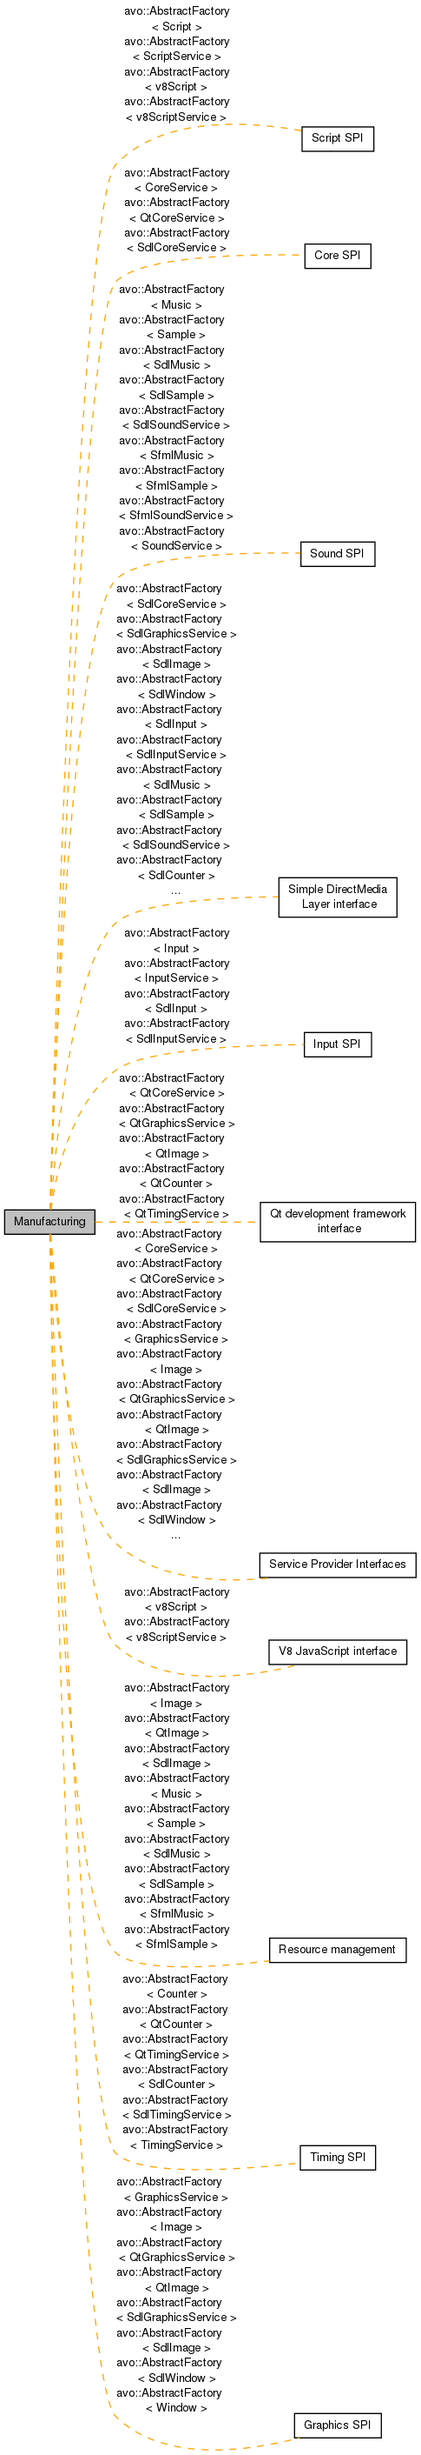
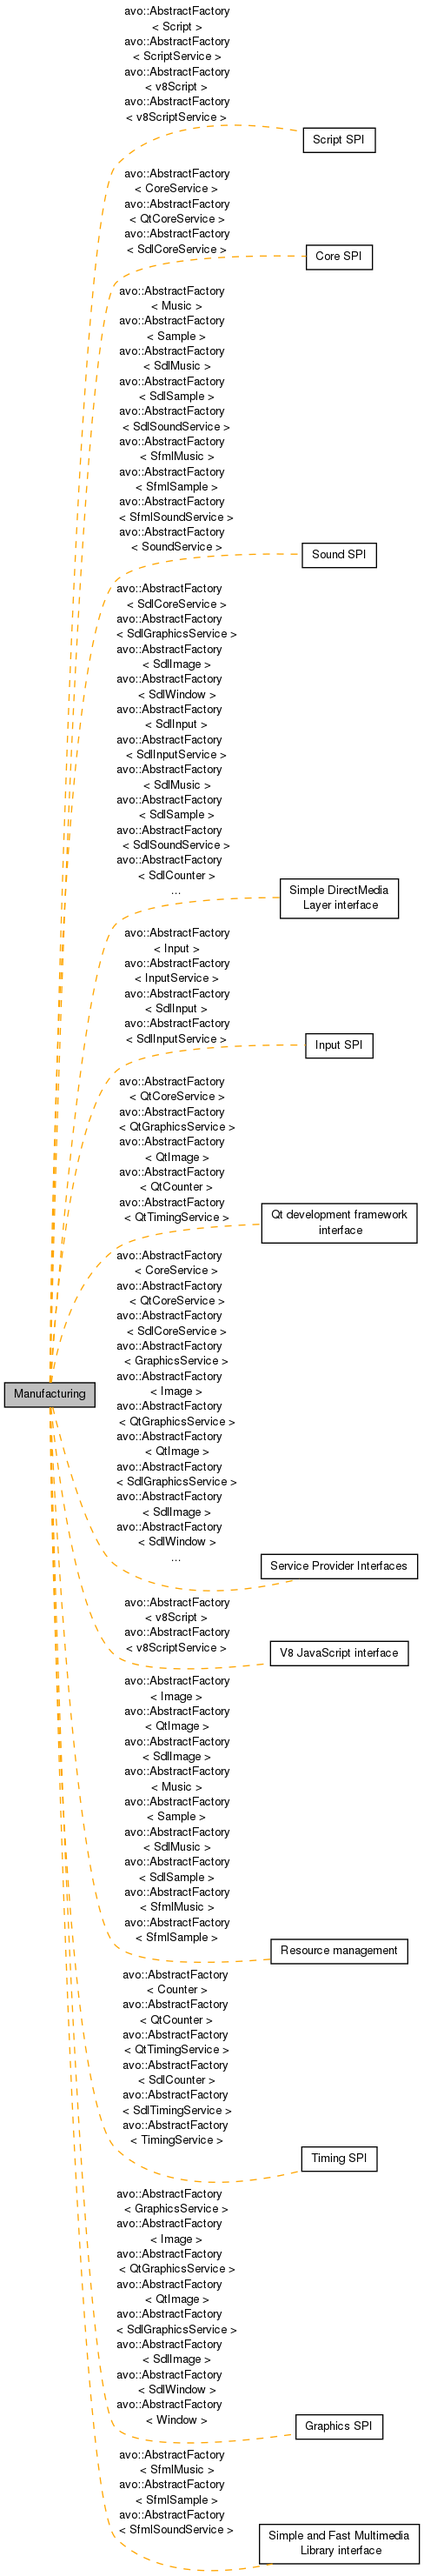
raw:419c39bc924a7d3ce7db492aa6c10b3a70083c38

diff --git a/cpp/group__SFML.html b/cpp/group__SFML.html
@@ -3,7 +3,7 @@
 <head>
 <meta http-equiv="Content-Type" content="text/xhtml;charset=UTF-8"/>
 <meta http-equiv="X-UA-Compatible" content="IE=9"/>
-<title>AvocadoC++: Modules</title>
+<title>AvocadoC++: Simple and Fast Multimedia Library interface</title>
 <link href="tabs.css" rel="stylesheet" type="text/css"/>
 <script type="text/javascript" src="jquery.js"></script>
 <script type="text/javascript" src="dynsections.js"></script>
@@ -37,7 +37,7 @@ var searchBox = new SearchBox("searchBox", "search",false,'Search');
   <div id="navrow1" class="tabs">
     <ul class="tablist">
       <li><a href="index.html"><span>Main&#160;Page</span></a></li>
-      <li class="current"><a href="modules.html"><span>Modules</span></a></li>
+      <li><a href="modules.html"><span>Modules</span></a></li>
       <li><a href="namespaces.html"><span>Namespaces</span></a></li>
       <li><a href="annotated.html"><span>Classes</span></a></li>
       <li><a href="files.html"><span>Files</span></a></li>
@@ -75,28 +75,41 @@ var searchBox = new SearchBox("searchBox", "search",false,'Search');
 </div>
 
 <div class="header">
+  <div class="summary">
+<a href="#nested-classes">Classes</a>  </div>
   <div class="headertitle">
-<div class="title">Modules</div>  </div>
+<div class="title">Simple and Fast Multimedia Library interface</div>  </div>
 </div><!--header-->
 <div class="contents">
-<div class="textblock">Here is a list of all modules:</div><div class="directory">
-<table class="directory">
-<tr id="row_0_" class="even"><td class="entry"><img src="ftv2node.png" alt="o" width="16" height="22" /><a class="el" href="group__SPI.html" target="_self">Service Provider Interfaces</a></td><td class="desc">Simply put, SPI implementations (SPIIs) provide an way for the engine to do interesting and dynamic things</td></tr>
-<tr id="row_1_"><td class="entry"><img src="ftv2node.png" alt="o" width="16" height="22" /><a class="el" href="group__Script.html" target="_self">Script SPI</a></td><td class="desc">The script SPI handles all communication between the native C++ engine and JavaScript</td></tr>
-<tr id="row_2_" class="even"><td class="entry"><img src="ftv2node.png" alt="o" width="16" height="22" /><a class="el" href="group__Core.html" target="_self">Core SPI</a></td><td class="desc">The core SPI handles framework initialization (e.g. SDL_Init()) and teardown (e.g. SDL_Quit()) as well as bridges to core engine functionality like filesystem access</td></tr>
-<tr id="row_3_"><td class="entry"><img src="ftv2node.png" alt="o" width="16" height="22" /><a class="el" href="group__Graphics.html" target="_self">Graphics SPI</a></td><td class="desc">The graphics SPI handles window and graphics system initialization, and rendering</td></tr>
-<tr id="row_4_" class="even"><td class="entry"><img src="ftv2node.png" alt="o" width="16" height="22" /><a class="el" href="group__Input.html" target="_self">Input SPI</a></td><td class="desc">The input SPI handles user input polling</td></tr>
-<tr id="row_5_"><td class="entry"><img src="ftv2node.png" alt="o" width="16" height="22" /><a class="el" href="group__Sound.html" target="_self">Sound SPI</a></td><td class="desc">The sound SPI handles sound system initialization, as well as music and sample loading and playing</td></tr>
-<tr id="row_6_" class="even"><td class="entry"><img src="ftv2node.png" alt="o" width="16" height="22" /><a class="el" href="group__Timing.html" target="_self">Timing SPI</a></td><td class="desc">The timing SPI handles measuring time</td></tr>
-<tr id="row_7_"><td class="entry"><img src="ftv2node.png" alt="o" width="16" height="22" /><a class="el" href="group__Manufacturing.html" target="_self">Manufacturing</a></td><td class="desc">Manufacturing functionality handles <a class="el" href="classavo_1_1AbstractFactory.html">abstract factory </a> definition and managing concrete factory instances</td></tr>
-<tr id="row_8_" class="even"><td class="entry"><img src="ftv2node.png" alt="o" width="16" height="22" /><a class="el" href="group__Resources.html" target="_self">Resource management</a></td><td class="desc">Resources are loaded from the resource root and are managed using reference counting</td></tr>
-<tr id="row_9_"><td class="entry"><img src="ftv2node.png" alt="o" width="16" height="22" /><a class="el" href="group__Global.html" target="_self">Globals and miscellany</a></td><td class="desc">Global macros and other miscellany</td></tr>
-<tr id="row_10_" class="even"><td class="entry"><img src="ftv2node.png" alt="o" width="16" height="22" /><a class="el" href="group__V8.html" target="_self">V8 JavaScript interface</a></td><td class="desc">Avocado's interface to the <a href="http://code.google.com/p/v8/">V8 JavaScript engine</a></td></tr>
-<tr id="row_11_"><td class="entry"><img src="ftv2node.png" alt="o" width="16" height="22" /><a class="el" href="group__SDL.html" target="_self">Simple DirectMedia Layer interface</a></td><td class="desc">Avocado's interface to the <a href="http://www.libsdl.org/">Simple DirectMedia Layer</a></td></tr>
-<tr id="row_12_" class="even"><td class="entry"><img src="ftv2node.png" alt="o" width="16" height="22" /><a class="el" href="group__SFML.html" target="_self">Simple and Fast Multimedia Library interface</a></td><td class="desc">Avocado's interface to the <a href="http://www.sfml-dev.org">Simple and Fast Multimedia Library</a></td></tr>
-<tr id="row_13_"><td class="entry"><img src="ftv2lastnode.png" alt="\" width="16" height="22" /><a class="el" href="group__Qt.html" target="_self">Qt development framework interface</a></td><td class="desc">Avocado's interface to the <a href="http://qt.digia.com/">Qt development framework</a></td></tr>
+
+<p>Avocado's interface to the <a href="http://www.sfml-dev.org">Simple and Fast Multimedia Library</a>.  
+<a href="#details">More...</a></p>
+<div class="dynheader">
+Collaboration diagram for Simple and Fast Multimedia Library interface:</div>
+<div class="dyncontent">
+<center><table><tr><td><img src="group__SFML.png" border="0" alt="" usemap="#group____SFML"/>
+<map name="group____SFML" id="group____SFML">
+<area shape="rect" id="node1" href="group__Sound.html" title="The sound SPI handles sound system initialization, as well as music and sample loading and playing..." alt="" coords="424,151,509,180"/><area shape="rect" id="node2" href="group__SPI.html" title="Simply put, SPI implementations (SPIIs) provide an way for the engine to do interesting and dynamic t..." alt="" coords="377,303,556,332"/><area shape="rect" id="node3" href="group__Resources.html" title="Resources are loaded from the resource root and are managed using reference counting." alt="" coords="388,437,545,467"/><area shape="rect" id="node4" href="group__Manufacturing.html" title="Manufacturing functionality handles abstract factory &#160;definition and managing concrete factory instan..." alt="" coords="415,572,519,601"/></map>
+</td></tr></table></center>
+</div>
+<table class="memberdecls">
+<tr class="heading"><td colspan="2"><h2 class="groupheader"><a name="nested-classes"></a>
+Classes</h2></td></tr>
+<tr class="memitem:"><td class="memItemLeft" align="right" valign="top">class &#160;</td><td class="memItemRight" valign="bottom"><a class="el" href="classavo_1_1SfmlMusic.html">avo::SfmlMusic</a></td></tr>
+<tr class="separator:"><td class="memSeparator" colspan="2">&#160;</td></tr>
+<tr class="memitem:"><td class="memItemLeft" align="right" valign="top">class &#160;</td><td class="memItemRight" valign="bottom"><a class="el" href="classavo_1_1AbstractFactory_3_01SfmlMusic_01_4.html">avo::AbstractFactory&lt; SfmlMusic &gt;</a></td></tr>
+<tr class="separator:"><td class="memSeparator" colspan="2">&#160;</td></tr>
+<tr class="memitem:"><td class="memItemLeft" align="right" valign="top">class &#160;</td><td class="memItemRight" valign="bottom"><a class="el" href="classavo_1_1SfmlSample.html">avo::SfmlSample</a></td></tr>
+<tr class="separator:"><td class="memSeparator" colspan="2">&#160;</td></tr>
+<tr class="memitem:"><td class="memItemLeft" align="right" valign="top">class &#160;</td><td class="memItemRight" valign="bottom"><a class="el" href="classavo_1_1AbstractFactory_3_01SfmlSample_01_4.html">avo::AbstractFactory&lt; SfmlSample &gt;</a></td></tr>
+<tr class="separator:"><td class="memSeparator" colspan="2">&#160;</td></tr>
+<tr class="memitem:"><td class="memItemLeft" align="right" valign="top">class &#160;</td><td class="memItemRight" valign="bottom"><a class="el" href="classavo_1_1SfmlSoundService.html">avo::SfmlSoundService</a></td></tr>
+<tr class="separator:"><td class="memSeparator" colspan="2">&#160;</td></tr>
+<tr class="memitem:"><td class="memItemLeft" align="right" valign="top">class &#160;</td><td class="memItemRight" valign="bottom"><a class="el" href="classavo_1_1AbstractFactory_3_01SfmlSoundService_01_4.html">avo::AbstractFactory&lt; SfmlSoundService &gt;</a></td></tr>
+<tr class="separator:"><td class="memSeparator" colspan="2">&#160;</td></tr>
 </table>
-</div><!-- directory -->
+<a name="details" id="details"></a><h2 class="groupheader">Detailed Description</h2>
+<p>Avocado's interface to the <a href="http://www.sfml-dev.org">Simple and Fast Multimedia Library</a>. </p>
 </div><!-- contents -->
 <!-- start footer part -->
 <hr class="footer"/><address class="footer"><small>

diff --git a/cpp/group__SPI.html b/cpp/group__SPI.html
@@ -90,7 +90,7 @@ Collaboration diagram for Service Provider Interfaces:</div>
 <div class="dyncontent">
 <center><table><tr><td><img src="group__SPI.png" border="0" alt="" usemap="#group____SPI"/>
 <map name="group____SPI" id="group____SPI">
-<area shape="rect" id="node1" href="group__Script.html" title="The script SPI handles all communication between the native C++ engine and JavaScript." alt="" coords="424,232,507,261"/><area shape="rect" id="node2" href="group__Core.html" title="The core SPI handles framework initialization (e.g. SDL_Init()) and teardown (e.g. SDL_Quit()) as well as bridges to core engine functionality like filesystem access." alt="" coords="428,436,503,465"/><area shape="rect" id="node3" href="group__Sound.html" title="The sound SPI handles sound system initialization, as well as music and sample loading and playing..." alt="" coords="423,761,508,791"/><area shape="rect" id="node4" href="group__SDL.html" title="Avocado&#39;s interface to the Simple DirectMedia Layer." alt="" coords="397,1113,533,1159"/><area shape="rect" id="node5" href="group__Input.html" title="The input SPI handles user input polling." alt="" coords="427,1325,504,1355"/><area shape="rect" id="node6" href="group__Qt.html" title="Avocado&#39;s interface to the Qt development framework." alt="" coords="376,1555,555,1602"/><area shape="rect" id="node8" href="group__V8.html" title="Avocado&#39;s interface to the V8 JavaScript engine." alt="" coords="387,1803,544,1832"/><area shape="rect" id="node9" href="group__Resources.html" title="Resources are loaded from the resource root and are managed using reference counting." alt="" coords="387,2145,544,2175"/><area shape="rect" id="node10" href="group__Timing.html" title="The timing SPI handles measuring time." alt="" coords="423,2436,508,2465"/><area shape="rect" id="node11" href="group__Manufacturing.html" title="Manufacturing functionality handles abstract factory &#160;definition and managing concrete factory instan..." alt="" coords="413,2831,517,2860"/><area shape="rect" id="node12" href="group__Graphics.html" title="The graphics SPI handles window and graphics system initialization, and rendering." alt="" coords="416,3191,515,3220"/></map>
+<area shape="rect" id="node1" href="group__Script.html" title="The script SPI handles all communication between the native C++ engine and JavaScript." alt="" coords="427,232,509,261"/><area shape="rect" id="node2" href="group__Core.html" title="The core SPI handles framework initialization (e.g. SDL_Init()) and teardown (e.g. SDL_Quit()) as well as bridges to core engine functionality like filesystem access." alt="" coords="431,436,505,465"/><area shape="rect" id="node3" href="group__Sound.html" title="The sound SPI handles sound system initialization, as well as music and sample loading and playing..." alt="" coords="425,761,511,791"/><area shape="rect" id="node4" href="group__SDL.html" title="Avocado&#39;s interface to the Simple DirectMedia Layer." alt="" coords="400,1113,536,1159"/><area shape="rect" id="node5" href="group__Input.html" title="The input SPI handles user input polling." alt="" coords="429,1325,507,1355"/><area shape="rect" id="node6" href="group__Qt.html" title="Avocado&#39;s interface to the Qt development framework." alt="" coords="379,1555,557,1602"/><area shape="rect" id="node8" href="group__V8.html" title="Avocado&#39;s interface to the V8 JavaScript engine." alt="" coords="389,1803,547,1832"/><area shape="rect" id="node9" href="group__Resources.html" title="Resources are loaded from the resource root and are managed using reference counting." alt="" coords="389,2145,547,2175"/><area shape="rect" id="node10" href="group__Timing.html" title="The timing SPI handles measuring time." alt="" coords="425,2436,511,2465"/><area shape="rect" id="node11" href="group__Manufacturing.html" title="Manufacturing functionality handles abstract factory &#160;definition and managing concrete factory instan..." alt="" coords="416,2831,520,2860"/><area shape="rect" id="node12" href="group__Graphics.html" title="The graphics SPI handles window and graphics system initialization, and rendering." alt="" coords="419,3191,517,3220"/><area shape="rect" id="node13" href="group__SFML.html" title="Avocado&#39;s interface to the Simple and Fast Multimedia Library." alt="" coords="376,3334,560,3381"/></map>
 </td></tr></table></center>
 </div>
 <table class="memberdecls">

diff --git a/cpp/group__Manufacturing.html b/cpp/group__Manufacturing.html
@@ -89,7 +89,7 @@ Collaboration diagram for Manufacturing:</div>
 <div class="dyncontent">
 <center><table><tr><td><img src="group__Manufacturing.png" border="0" alt="" usemap="#group____Manufacturing"/>
 <map name="group____Manufacturing" id="group____Manufacturing">
-<area shape="rect" id="node1" href="group__Script.html" title="The script SPI handles all communication between the native C++ engine and JavaScript." alt="" coords="348,145,431,175"/><area shape="rect" id="node2" href="group__Core.html" title="The core SPI handles framework initialization (e.g. SDL_Init()) and teardown (e.g. SDL_Quit()) as well as bridges to core engine functionality like filesystem access." alt="" coords="352,280,427,309"/><area shape="rect" id="node3" href="group__Sound.html" title="The sound SPI handles sound system initialization, as well as music and sample loading and playing..." alt="" coords="347,623,432,652"/><area shape="rect" id="node4" href="group__SDL.html" title="Avocado&#39;s interface to the Simple DirectMedia Layer." alt="" coords="321,1009,457,1055"/><area shape="rect" id="node5" href="group__Input.html" title="The input SPI handles user input polling." alt="" coords="351,1187,428,1216"/><area shape="rect" id="node6" href="group__Qt.html" title="Avocado&#39;s interface to the Qt development framework." alt="" coords="300,1382,479,1429"/><area shape="rect" id="node7" href="group__SPI.html" title="Simply put, SPI implementations (SPIIs) provide an way for the engine to do interesting and dynamic t..." alt="" coords="300,1785,479,1815"/><area shape="rect" id="node8" href="group__V8.html" title="Avocado&#39;s interface to the V8 JavaScript engine." alt="" coords="311,1885,468,1915"/><area shape="rect" id="node9" href="group__Resources.html" title="Resources are loaded from the resource root and are managed using reference counting." alt="" coords="311,2228,468,2257"/><area shape="rect" id="node10" href="group__Timing.html" title="The timing SPI handles measuring time." alt="" coords="347,2467,432,2496"/><area shape="rect" id="node12" href="group__Graphics.html" title="The graphics SPI handles window and graphics system initialization, and rendering." alt="" coords="340,2775,439,2804"/></map>
+<area shape="rect" id="node1" href="group__Script.html" title="The script SPI handles all communication between the native C++ engine and JavaScript." alt="" coords="349,147,432,176"/><area shape="rect" id="node2" href="group__Core.html" title="The core SPI handles framework initialization (e.g. SDL_Init()) and teardown (e.g. SDL_Quit()) as well as bridges to core engine functionality like filesystem access." alt="" coords="353,281,428,311"/><area shape="rect" id="node3" href="group__Sound.html" title="The sound SPI handles sound system initialization, as well as music and sample loading and playing..." alt="" coords="348,624,433,653"/><area shape="rect" id="node4" href="group__SDL.html" title="Avocado&#39;s interface to the Simple DirectMedia Layer." alt="" coords="323,1010,459,1057"/><area shape="rect" id="node5" href="group__Input.html" title="The input SPI handles user input polling." alt="" coords="352,1188,429,1217"/><area shape="rect" id="node6" href="group__Qt.html" title="Avocado&#39;s interface to the Qt development framework." alt="" coords="301,1383,480,1430"/><area shape="rect" id="node7" href="group__SPI.html" title="Simply put, SPI implementations (SPIIs) provide an way for the engine to do interesting and dynamic t..." alt="" coords="301,1787,480,1816"/><area shape="rect" id="node8" href="group__V8.html" title="Avocado&#39;s interface to the V8 JavaScript engine." alt="" coords="312,1887,469,1916"/><area shape="rect" id="node9" href="group__Resources.html" title="Resources are loaded from the resource root and are managed using reference counting." alt="" coords="312,2229,469,2259"/><area shape="rect" id="node10" href="group__Timing.html" title="The timing SPI handles measuring time." alt="" coords="348,2468,433,2497"/><area shape="rect" id="node12" href="group__Graphics.html" title="The graphics SPI handles window and graphics system initialization, and rendering." alt="" coords="341,2776,440,2805"/><area shape="rect" id="node13" href="group__SFML.html" title="Avocado&#39;s interface to the Simple and Fast Multimedia Library." alt="" coords="299,2902,483,2949"/></map>
 </td></tr></table></center>
 </div>
 <table class="memberdecls">

diff --git a/cpp/search/all_73.js b/cpp/search/all_73.js
@@ -89,12 +89,13 @@ var searchData=
   ['seturi',['setUri',['../classavo_1_1Image.html#a1d9990a7504c7e84a63f858a46b82bad',1,'avo::Image::setUri()'],['../classavo_1_1Music.html#ac6e302dfd387e25dc45b04cf5e759119',1,'avo::Music::setUri()'],['../classavo_1_1Sample.html#a629d6d190a80e596249ab6f1524c4a3f',1,'avo::Sample::setUri()']]],
   ['setvolume',['setVolume',['../classavo_1_1Music.html#a9601dd871c829b52da5b4fbd5db7c3f3',1,'avo::Music::setVolume()'],['../classavo_1_1SdlMusic.html#aa3b95ac2622038badc979811e963f957',1,'avo::SdlMusic::setVolume()'],['../classavo_1_1SfmlMusic.html#a52c37a0f39f4525dab06f5b41f5a62c8',1,'avo::SfmlMusic::setVolume()']]],
   ['setwindowtitle',['setWindowTitle',['../classavo_1_1SdlWindow.html#aacc1fd9ef6505500ed238c2120f273fb',1,'avo::SdlWindow::setWindowTitle()'],['../classavo_1_1Window.html#ae154ba23f1b111fd5a8f223a675c370c',1,'avo::Window::setWindowTitle()']]],
+  ['simple_20and_20fast_20multimedia_20library_20interface',['Simple and Fast Multimedia Library interface',['../group__SFML.html',1,'']]],
   ['sfmlmusic',['SfmlMusic',['../classavo_1_1SfmlMusic.html',1,'avo']]],
   ['sfmlmusic',['SfmlMusic',['../classavo_1_1SfmlMusic.html#adb8ecc6974cd7b1cfb25003496792f5c',1,'avo::SfmlMusic::SfmlMusic()'],['../classavo_1_1SfmlMusic.html#aee6ede73f6ce1b932b33689d0d2a18c5',1,'avo::SfmlMusic::SfmlMusic(const boost::filesystem::path &amp;uri)']]],
   ['sfmlmusic_2ecpp',['SfmlMusic.cpp',['../SfmlMusic_8cpp.html',1,'']]],
   ['sfmlmusic_2eh',['SfmlMusic.h',['../SfmlMusic_8h.html',1,'']]],
-  ['sfmlsample',['SfmlSample',['../classavo_1_1SfmlSample.html',1,'avo']]],
   ['sfmlsample',['SfmlSample',['../classavo_1_1SfmlSample.html#a84c4bd697edaccfec61ebf36314550c6',1,'avo::SfmlSample::SfmlSample()'],['../classavo_1_1SfmlSample.html#ab19efffd1fac06efc7e876ff3b05de6d',1,'avo::SfmlSample::SfmlSample(const SfmlSample &amp;counter)'],['../classavo_1_1SfmlSample.html#aa1d79252b55cf41dae9656b431d87672',1,'avo::SfmlSample::SfmlSample(const Sample &amp;counter)'],['../classavo_1_1SfmlSample.html#a360beec76bb5663ff11bee84220c0b4e',1,'avo::SfmlSample::SfmlSample(const boost::filesystem::path &amp;uri)']]],
+  ['sfmlsample',['SfmlSample',['../classavo_1_1SfmlSample.html',1,'avo']]],
   ['sfmlsample_2ecpp',['SfmlSample.cpp',['../SfmlSample_8cpp.html',1,'']]],
   ['sfmlsample_2eh',['SfmlSample.h',['../SfmlSample_8h.html',1,'']]],
   ['sfmlsoundservice',['SfmlSoundService',['../classavo_1_1SfmlSoundService.html',1,'avo']]],
@@ -111,11 +112,11 @@ var searchData=
   ['soundservice_2eh',['SoundService.h',['../SoundService_8h.html',1,'']]],
   ['soundservicespiiloader',['soundServiceSpiiLoader',['../namespaceavo.html#a394a2bf4d73919421f5d07cca9a8d398',1,'avo']]],
   ['special_5fkey',['SPECIAL_KEY',['../v8Input_8cpp.html#a53cb41a87ee46698d8ca03b417ce4c9e',1,'v8Input.cpp']]],
-  ['specialkeymap',['specialKeyMap',['../classavo_1_1Input.html#a0b1417b49538fc5f5b327550c9f84a84',1,'avo::Input::specialKeyMap()'],['../classavo_1_1SdlInput.html#a2172c69c776c2b6492daabe1333c4231',1,'avo::SdlInput::specialKeyMap()']]],
   ['specialkeymap',['SpecialKeyMap',['../structavo_1_1Input_1_1SpecialKeyMap.html',1,'avo::Input']]],
+  ['specialkeymap',['specialKeyMap',['../classavo_1_1Input.html#a0b1417b49538fc5f5b327550c9f84a84',1,'avo::Input::specialKeyMap()'],['../classavo_1_1SdlInput.html#a2172c69c776c2b6492daabe1333c4231',1,'avo::SdlInput::specialKeyMap()']]],
   ['service_20provider_20interfaces',['Service Provider Interfaces',['../group__SPI.html',1,'']]],
-  ['spi_5fimplementation_5ferror',['spi_implementation_error',['../classavo_1_1SpiiLoader_1_1spi__implementation__error.html#aaebdf51ab83a5676a3176b107fcf3424',1,'avo::SpiiLoader::spi_implementation_error']]],
   ['spi_5fimplementation_5ferror',['spi_implementation_error',['../classavo_1_1SpiiLoader_1_1spi__implementation__error.html',1,'avo::SpiiLoader']]],
+  ['spi_5fimplementation_5ferror',['spi_implementation_error',['../classavo_1_1SpiiLoader_1_1spi__implementation__error.html#aaebdf51ab83a5676a3176b107fcf3424',1,'avo::SpiiLoader::spi_implementation_error']]],
   ['spiiloader',['SpiiLoader',['../classavo_1_1SpiiLoader.html',1,'avo']]],
   ['spiiloader',['SpiiLoader',['../classavo_1_1SpiiLoader.html#adae3fbdeee085b3dc260e5d9e7fc5aac',1,'avo::SpiiLoader']]],
   ['spiiloader_2eh',['SpiiLoader.h',['../SpiiLoader_8h.html',1,'']]],

diff --git a/cpp/group__Resources.html b/cpp/group__Resources.html
@@ -89,7 +89,7 @@ Collaboration diagram for Resource management:</div>
 <div class="dyncontent">
 <center><table><tr><td><img src="group__Resources.png" border="0" alt="" usemap="#group____Resources"/>
 <map name="group____Resources" id="group____Resources">
-<area shape="rect" id="node1" href="group__Sound.html" title="The sound SPI handles sound system initialization, as well as music and sample loading and playing..." alt="" coords="381,279,467,308"/><area shape="rect" id="node2" href="group__SDL.html" title="Avocado&#39;s interface to the Simple DirectMedia Layer." alt="" coords="356,457,492,503"/><area shape="rect" id="node3" href="group__Qt.html" title="Avocado&#39;s interface to the Qt development framework." alt="" coords="335,539,513,586"/><area shape="rect" id="node4" href="group__SPI.html" title="Simply put, SPI implementations (SPIIs) provide an way for the engine to do interesting and dynamic t..." alt="" coords="335,891,513,920"/><area shape="rect" id="node6" href="group__Manufacturing.html" title="Manufacturing functionality handles abstract factory &#160;definition and managing concrete factory instan..." alt="" coords="372,1233,476,1263"/><area shape="rect" id="node7" href="group__Graphics.html" title="The graphics SPI handles window and graphics system initialization, and rendering." alt="" coords="375,1420,473,1449"/></map>
+<area shape="rect" id="node1" href="group__Sound.html" title="The sound SPI handles sound system initialization, as well as music and sample loading and playing..." alt="" coords="383,280,468,309"/><area shape="rect" id="node2" href="group__SDL.html" title="Avocado&#39;s interface to the Simple DirectMedia Layer." alt="" coords="357,458,493,505"/><area shape="rect" id="node3" href="group__Qt.html" title="Avocado&#39;s interface to the Qt development framework." alt="" coords="336,541,515,587"/><area shape="rect" id="node4" href="group__SPI.html" title="Simply put, SPI implementations (SPIIs) provide an way for the engine to do interesting and dynamic t..." alt="" coords="336,892,515,921"/><area shape="rect" id="node6" href="group__Manufacturing.html" title="Manufacturing functionality handles abstract factory &#160;definition and managing concrete factory instan..." alt="" coords="373,1235,477,1264"/><area shape="rect" id="node7" href="group__Graphics.html" title="The graphics SPI handles window and graphics system initialization, and rendering." alt="" coords="376,1421,475,1451"/><area shape="rect" id="node8" href="group__SFML.html" title="Avocado&#39;s interface to the Simple and Fast Multimedia Library." alt="" coords="333,1547,517,1594"/></map>
 </td></tr></table></center>
 </div>
 <table class="memberdecls">

diff --git a/cpp/group__Sound.html b/cpp/group__Sound.html
@@ -89,7 +89,7 @@ Collaboration diagram for Sound SPI:</div>
 <div class="dyncontent">
 <center><table><tr><td><img src="group__Sound.png" border="0" alt="" usemap="#group____Sound"/>
 <map name="group____Sound" id="group____Sound">
-<area shape="rect" id="node1" href="group__Script.html" title="The script SPI handles all communication between the native C++ engine and JavaScript." alt="" coords="321,56,404,85"/><area shape="rect" id="node3" href="group__SDL.html" title="Avocado&#39;s interface to the Simple DirectMedia Layer." alt="" coords="295,234,431,281"/><area shape="rect" id="node4" href="group__SPI.html" title="Simply put, SPI implementations (SPIIs) provide an way for the engine to do interesting and dynamic t..." alt="" coords="273,568,452,597"/><area shape="rect" id="node5" href="group__V8.html" title="Avocado&#39;s interface to the V8 JavaScript engine." alt="" coords="284,651,441,680"/><area shape="rect" id="node6" href="group__Resources.html" title="Resources are loaded from the resource root and are managed using reference counting." alt="" coords="284,959,441,988"/><area shape="rect" id="node7" href="group__Manufacturing.html" title="Manufacturing functionality handles abstract factory &#160;definition and managing concrete factory instan..." alt="" coords="311,1301,415,1331"/></map>
+<area shape="rect" id="node1" href="group__Script.html" title="The script SPI handles all communication between the native C++ engine and JavaScript." alt="" coords="328,59,411,88"/><area shape="rect" id="node3" href="group__SDL.html" title="Avocado&#39;s interface to the Simple DirectMedia Layer." alt="" coords="301,237,437,283"/><area shape="rect" id="node4" href="group__SPI.html" title="Simply put, SPI implementations (SPIIs) provide an way for the engine to do interesting and dynamic t..." alt="" coords="280,571,459,600"/><area shape="rect" id="node5" href="group__V8.html" title="Avocado&#39;s interface to the V8 JavaScript engine." alt="" coords="291,653,448,683"/><area shape="rect" id="node6" href="group__Resources.html" title="Resources are loaded from the resource root and are managed using reference counting." alt="" coords="291,961,448,991"/><area shape="rect" id="node7" href="group__Manufacturing.html" title="Manufacturing functionality handles abstract factory &#160;definition and managing concrete factory instan..." alt="" coords="317,1304,421,1333"/><area shape="rect" id="node8" href="group__SFML.html" title="Avocado&#39;s interface to the Simple and Fast Multimedia Library." alt="" coords="277,1482,461,1529"/></map>
 </td></tr></table></center>
 </div>
 <table class="memberdecls">

diff --git a/cpp/classavo_1_1AbstractFactory_3_01SfmlSample_01_4.html b/cpp/classavo_1_1AbstractFactory_3_01SfmlSample_01_4.html
@@ -91,7 +91,7 @@ var searchBox = new SearchBox("searchBox", "search",false,'Search');
 <a href="#pub-methods">Public Member Functions</a> &#124;
 <a href="classavo_1_1AbstractFactory_3_01SfmlSample_01_4-members.html">List of all members</a>  </div>
   <div class="headertitle">
-<div class="title">avo::AbstractFactory&lt; SfmlSample &gt; Class Template Reference<div class="ingroups"><a class="el" href="group__Sound.html">Sound SPI</a> &#124; <a class="el" href="group__Manufacturing.html">Manufacturing</a> &#124; <a class="el" href="group__Resources.html">Resource management</a> &#124; <a class="el" href="group__SPI.html">Service Provider Interfaces</a></div></div>  </div>
+<div class="title">avo::AbstractFactory&lt; SfmlSample &gt; Class Template Reference<div class="ingroups"><a class="el" href="group__Sound.html">Sound SPI</a> &#124; <a class="el" href="group__Manufacturing.html">Manufacturing</a> &#124; <a class="el" href="group__Resources.html">Resource management</a> &#124; <a class="el" href="group__SFML.html">Simple and Fast Multimedia Library interface</a> &#124; <a class="el" href="group__SPI.html">Service Provider Interfaces</a></div></div>  </div>
 </div><!--header-->
 <div class="contents">
 

diff --git a/cpp/classavo_1_1AbstractFactory_3_01SfmlMusic_01_4.html b/cpp/classavo_1_1AbstractFactory_3_01SfmlMusic_01_4.html
@@ -91,7 +91,7 @@ var searchBox = new SearchBox("searchBox", "search",false,'Search');
 <a href="#pub-methods">Public Member Functions</a> &#124;
 <a href="classavo_1_1AbstractFactory_3_01SfmlMusic_01_4-members.html">List of all members</a>  </div>
   <div class="headertitle">
-<div class="title">avo::AbstractFactory&lt; SfmlMusic &gt; Class Template Reference<div class="ingroups"><a class="el" href="group__Sound.html">Sound SPI</a> &#124; <a class="el" href="group__Manufacturing.html">Manufacturing</a> &#124; <a class="el" href="group__Resources.html">Resource management</a> &#124; <a class="el" href="group__SPI.html">Service Provider Interfaces</a></div></div>  </div>
+<div class="title">avo::AbstractFactory&lt; SfmlMusic &gt; Class Template Reference<div class="ingroups"><a class="el" href="group__Sound.html">Sound SPI</a> &#124; <a class="el" href="group__Manufacturing.html">Manufacturing</a> &#124; <a class="el" href="group__Resources.html">Resource management</a> &#124; <a class="el" href="group__SFML.html">Simple and Fast Multimedia Library interface</a> &#124; <a class="el" href="group__SPI.html">Service Provider Interfaces</a></div></div>  </div>
 </div><!--header-->
 <div class="contents">
 

diff --git a/cpp/classavo_1_1AbstractFactory_3_01SfmlSoundService_01_4.html b/cpp/classavo_1_1AbstractFactory_3_01SfmlSoundService_01_4.html
@@ -91,7 +91,7 @@ var searchBox = new SearchBox("searchBox", "search",false,'Search');
 <a href="#pub-methods">Public Member Functions</a> &#124;
 <a href="classavo_1_1AbstractFactory_3_01SfmlSoundService_01_4-members.html">List of all members</a>  </div>
   <div class="headertitle">
-<div class="title">avo::AbstractFactory&lt; SfmlSoundService &gt; Class Template Reference<div class="ingroups"><a class="el" href="group__Sound.html">Sound SPI</a> &#124; <a class="el" href="group__Manufacturing.html">Manufacturing</a> &#124; <a class="el" href="group__SPI.html">Service Provider Interfaces</a></div></div>  </div>
+<div class="title">avo::AbstractFactory&lt; SfmlSoundService &gt; Class Template Reference<div class="ingroups"><a class="el" href="group__Sound.html">Sound SPI</a> &#124; <a class="el" href="group__Manufacturing.html">Manufacturing</a> &#124; <a class="el" href="group__SFML.html">Simple and Fast Multimedia Library interface</a> &#124; <a class="el" href="group__SPI.html">Service Provider Interfaces</a></div></div>  </div>
 </div><!--header-->
 <div class="contents">
 

diff --git a/cpp/classavo_1_1SfmlSoundService.html b/cpp/classavo_1_1SfmlSoundService.html
@@ -92,7 +92,7 @@ var searchBox = new SearchBox("searchBox", "search",false,'Search');
 <a href="#pub-static-attribs">Static Public Attributes</a> &#124;
 <a href="classavo_1_1SfmlSoundService-members.html">List of all members</a>  </div>
   <div class="headertitle">
-<div class="title">avo::SfmlSoundService Class Reference<div class="ingroups"><a class="el" href="group__Sound.html">Sound SPI</a> &#124; <a class="el" href="group__SPI.html">Service Provider Interfaces</a></div></div>  </div>
+<div class="title">avo::SfmlSoundService Class Reference<div class="ingroups"><a class="el" href="group__Sound.html">Sound SPI</a> &#124; <a class="el" href="group__SFML.html">Simple and Fast Multimedia Library interface</a> &#124; <a class="el" href="group__SPI.html">Service Provider Interfaces</a></div></div>  </div>
 </div><!--header-->
 <div class="contents">
 

diff --git a/cpp/classavo_1_1SfmlSample.html b/cpp/classavo_1_1SfmlSample.html
@@ -92,7 +92,7 @@ var searchBox = new SearchBox("searchBox", "search",false,'Search');
 <a href="#pub-static-attribs">Static Public Attributes</a> &#124;
 <a href="classavo_1_1SfmlSample-members.html">List of all members</a>  </div>
   <div class="headertitle">
-<div class="title">avo::SfmlSample Class Reference<div class="ingroups"><a class="el" href="group__Sound.html">Sound SPI</a> &#124; <a class="el" href="group__Resources.html">Resource management</a></div></div>  </div>
+<div class="title">avo::SfmlSample Class Reference<div class="ingroups"><a class="el" href="group__Sound.html">Sound SPI</a> &#124; <a class="el" href="group__Resources.html">Resource management</a> &#124; <a class="el" href="group__SFML.html">Simple and Fast Multimedia Library interface</a></div></div>  </div>
 </div><!--header-->
 <div class="contents">
 

diff --git a/cpp/classavo_1_1SfmlMusic.html b/cpp/classavo_1_1SfmlMusic.html
@@ -92,7 +92,7 @@ var searchBox = new SearchBox("searchBox", "search",false,'Search');
 <a href="#pub-static-attribs">Static Public Attributes</a> &#124;
 <a href="classavo_1_1SfmlMusic-members.html">List of all members</a>  </div>
   <div class="headertitle">
-<div class="title">avo::SfmlMusic Class Reference<div class="ingroups"><a class="el" href="group__Sound.html">Sound SPI</a> &#124; <a class="el" href="group__Resources.html">Resource management</a></div></div>  </div>
+<div class="title">avo::SfmlMusic Class Reference<div class="ingroups"><a class="el" href="group__Sound.html">Sound SPI</a> &#124; <a class="el" href="group__Resources.html">Resource management</a> &#124; <a class="el" href="group__SFML.html">Simple and Fast Multimedia Library interface</a></div></div>  </div>
 </div><!--header-->
 <div class="contents">
 
